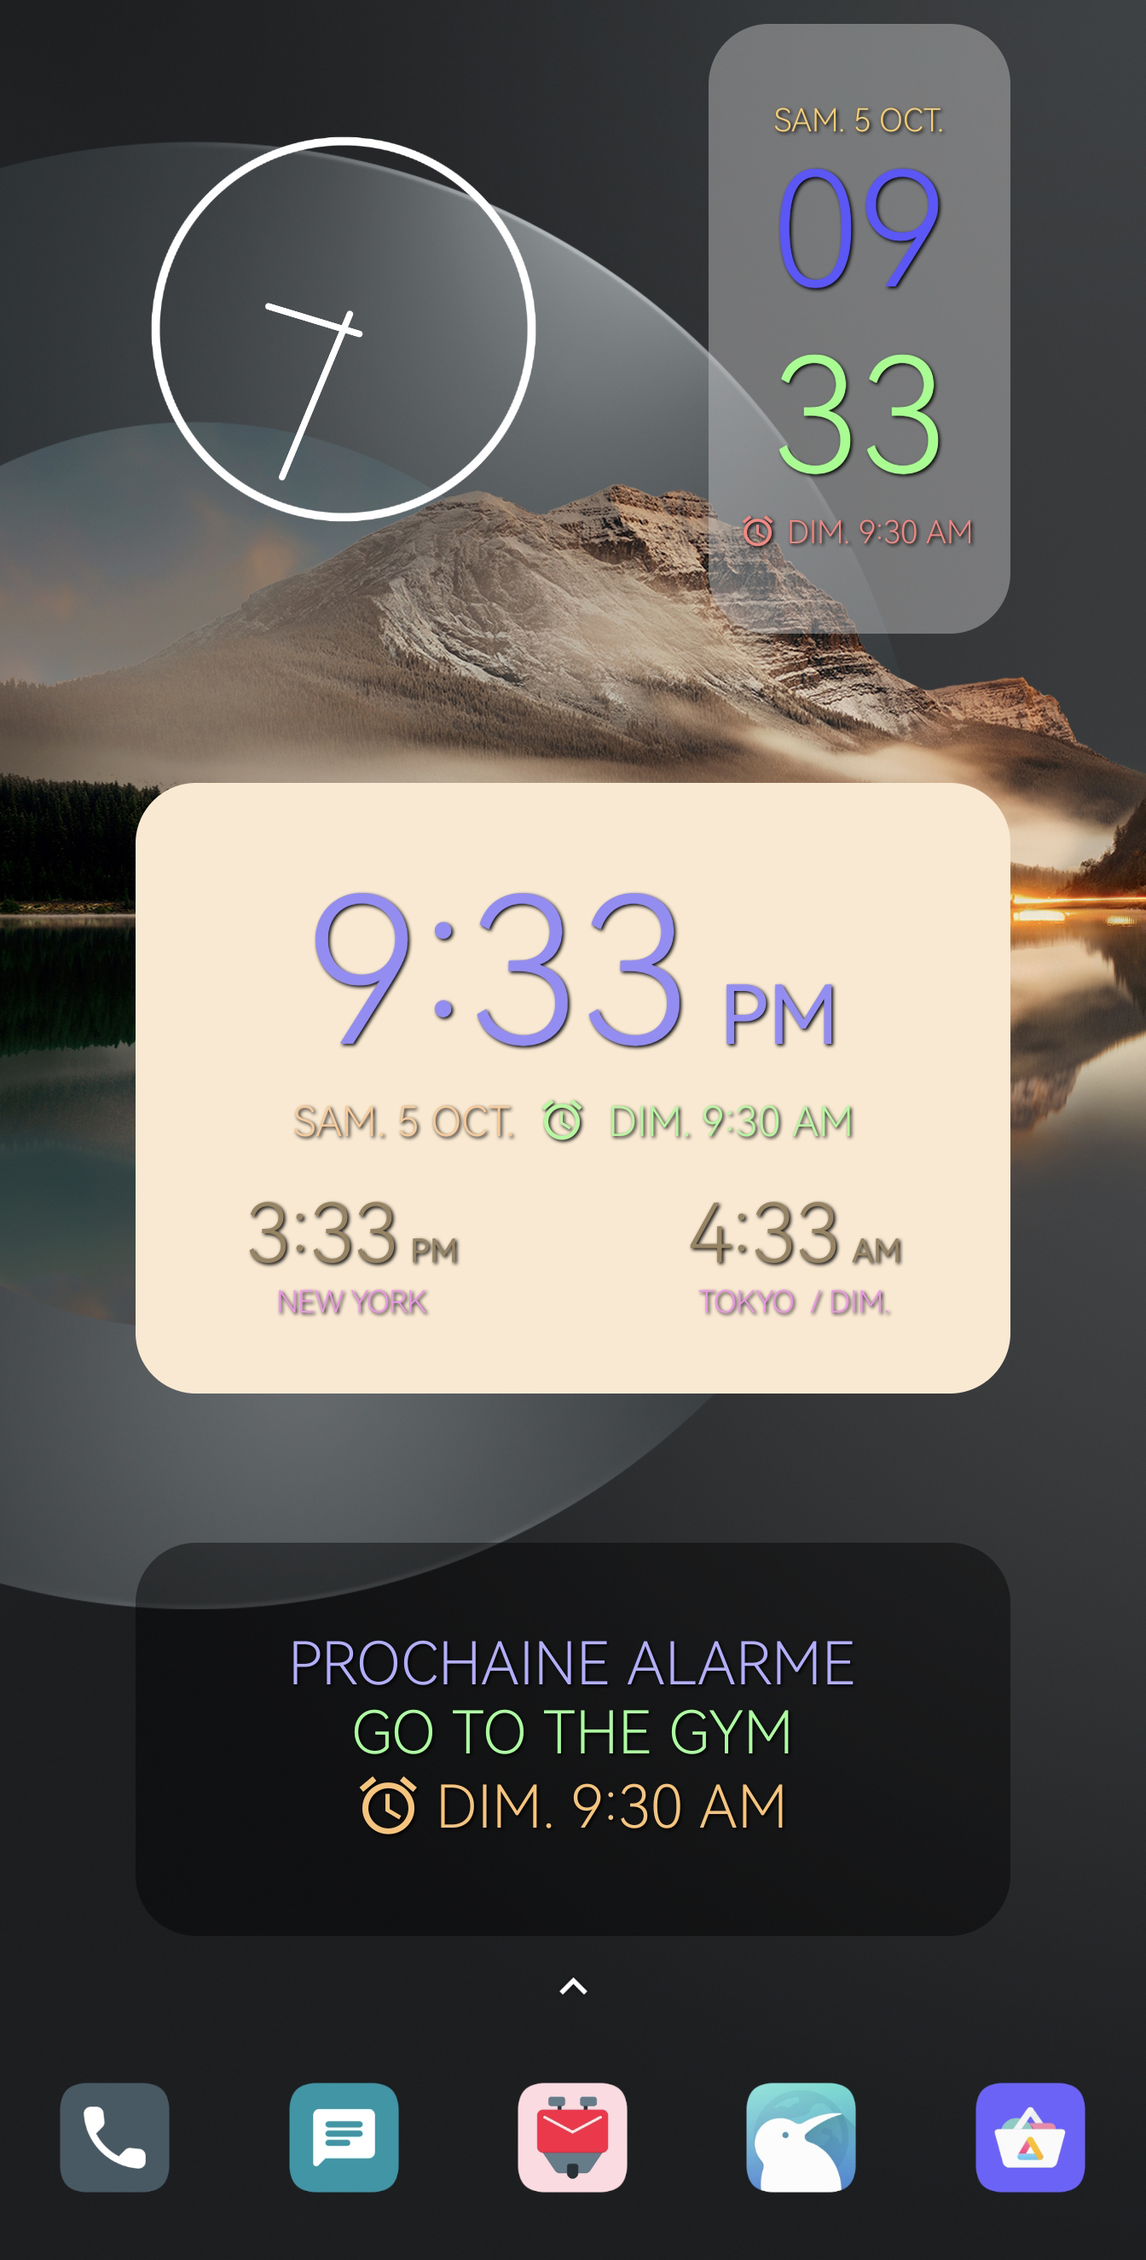
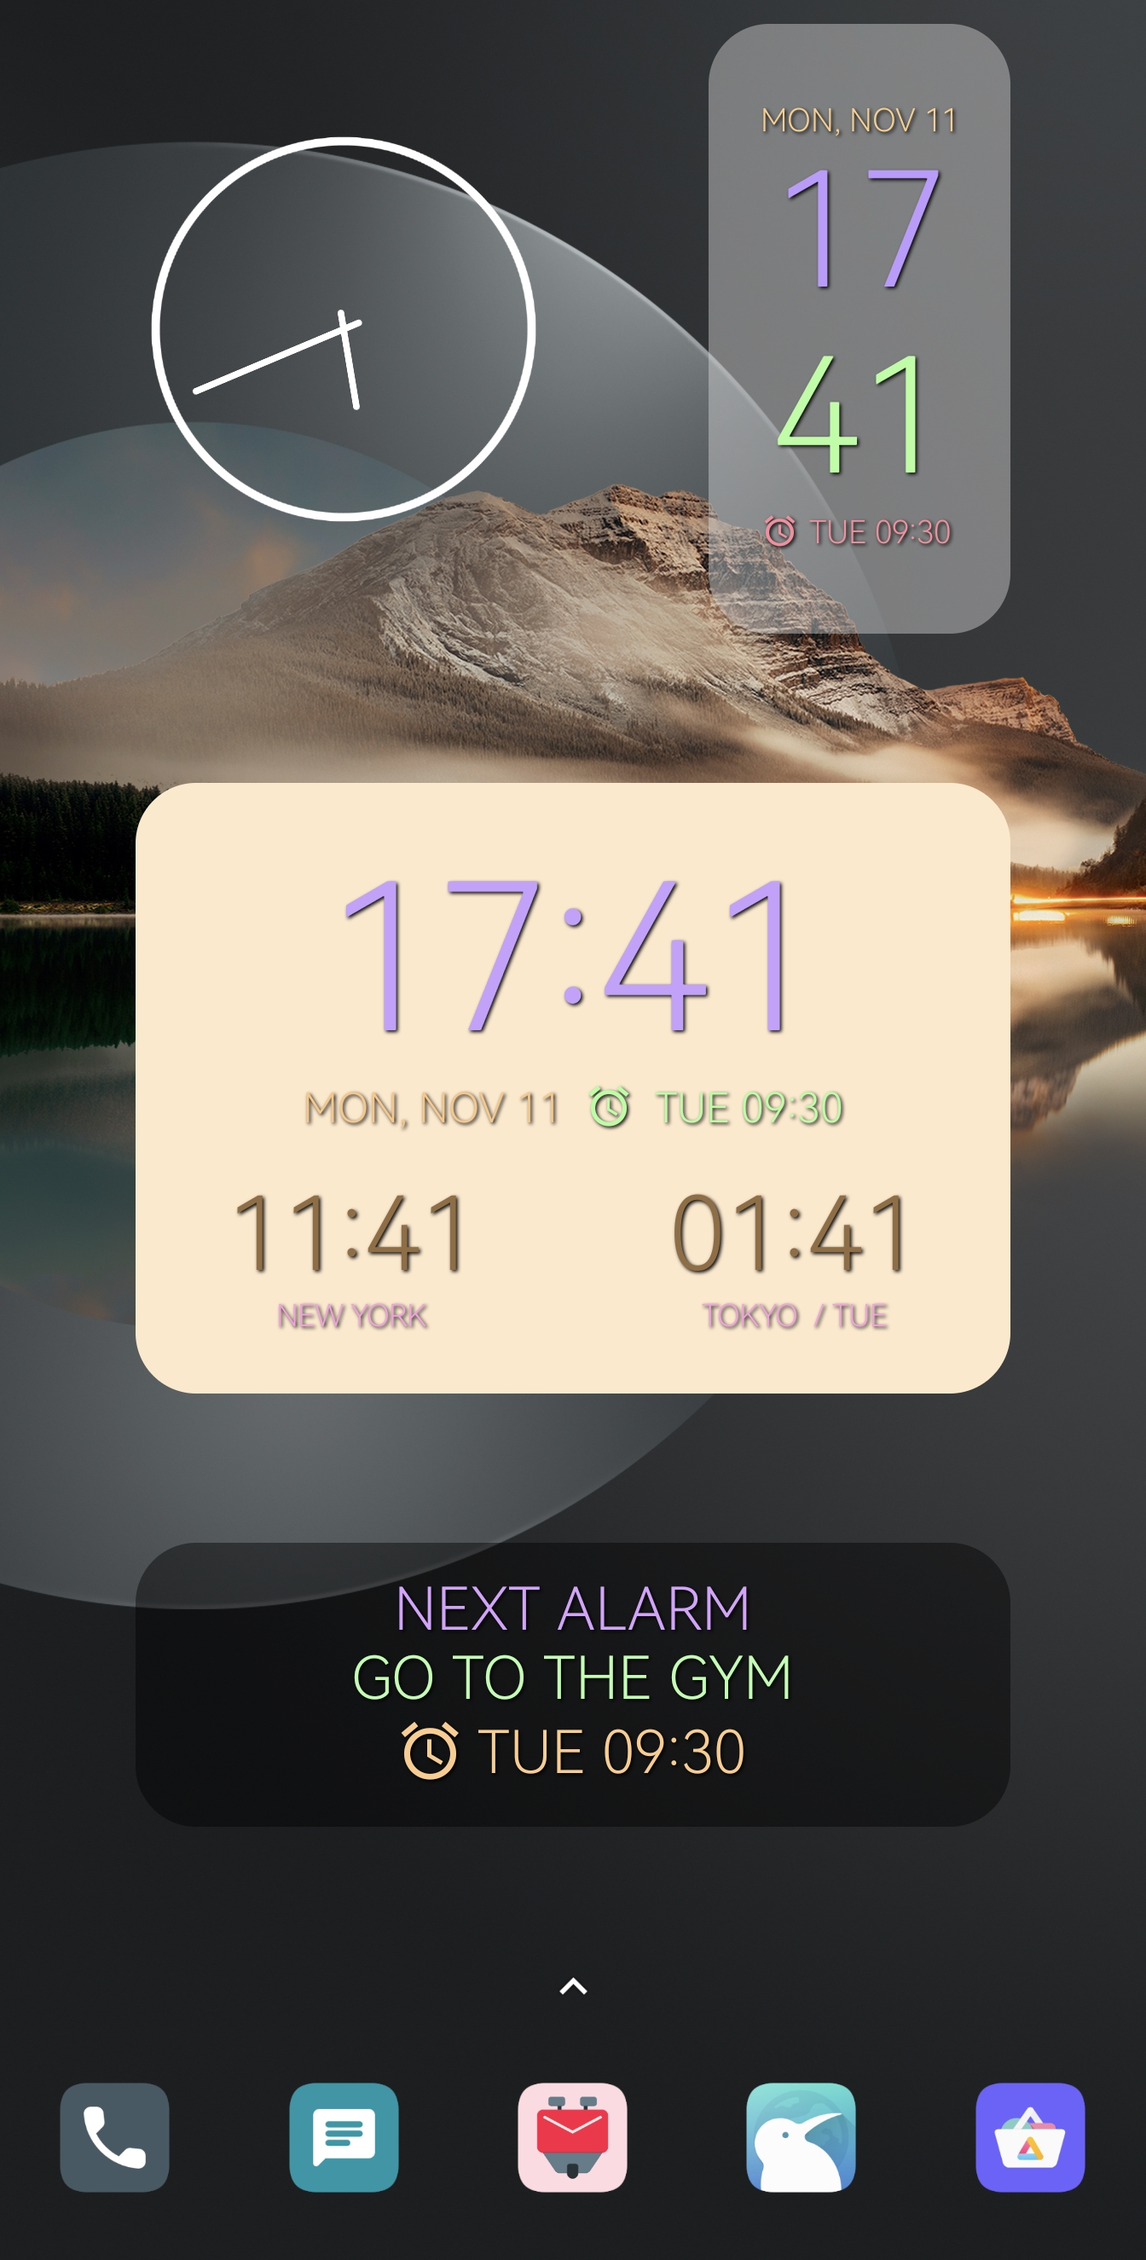
Some small updates
- Slightly improve the name of some values in the code;
- Screenshots (1x1px size) added in fastlane folder so that old screenshots are removed from F-Droid (These files may be deleted after the next update) - See #23;
- Update widget screenshots to display in English;

diff --git a/app/src/main/java/com/best/deskclock/Utils.java b/app/src/main/java/com/best/deskclock/Utils.java
@@ -840,14 +840,14 @@ public class Utils {
      * Apply the theme and the accent color to the activities.
      */
     public static void applyThemeAndAccentColor(final AppCompatActivity activity) {
-        final String getTheme = DataModel.getDataModel().getTheme();
-        final String getDarkMode = DataModel.getDataModel().getDarkMode();
+        final String theme = DataModel.getDataModel().getTheme();
+        final String darkMode = DataModel.getDataModel().getDarkMode();
         final String accentColor = DataModel.getDataModel().getAccentColor();
         final boolean isAutoNightAccentColorEnabled = DataModel.getDataModel().isAutoNightAccentColorEnabled();
         final String nightAccentColor = DataModel.getDataModel().getNightAccentColor();
 
-        if (getDarkMode.equals(KEY_DEFAULT_DARK_MODE)) {
-            switch (getTheme) {
+        if (darkMode.equals(KEY_DEFAULT_DARK_MODE)) {
+            switch (theme) {
                 case SYSTEM_THEME ->
                         AppCompatDelegate.setDefaultNightMode(AppCompatDelegate.MODE_NIGHT_FOLLOW_SYSTEM);
                 case LIGHT_THEME ->
@@ -855,8 +855,8 @@ public class Utils {
                 case DARK_THEME ->
                         AppCompatDelegate.setDefaultNightMode(AppCompatDelegate.MODE_NIGHT_YES);
             }
-        } else if (getDarkMode.equals(KEY_AMOLED_DARK_MODE)
-                && !getTheme.equals(SYSTEM_THEME) || !getTheme.equals(LIGHT_THEME)) {
+        } else if (darkMode.equals(KEY_AMOLED_DARK_MODE)
+                && !theme.equals(SYSTEM_THEME) || !theme.equals(LIGHT_THEME)) {
                 activity.setTheme(R.style.AmoledTheme);
         }
 
@@ -895,7 +895,7 @@ public class Utils {
         }
 
         if (activity instanceof CollapsingToolbarBaseActivity) {
-            if (isNight(activity.getResources()) && getDarkMode.equals(KEY_AMOLED_DARK_MODE)) {
+            if (isNight(activity.getResources()) && darkMode.equals(KEY_AMOLED_DARK_MODE)) {
                 activity.getWindow().setNavigationBarColor(Color.BLACK);
                 activity.getWindow().getDecorView().setBackgroundColor(Color.BLACK);
             } else {
@@ -904,7 +904,7 @@ public class Utils {
                 );
             }
         } else {
-            if (isNight(activity.getResources()) && getDarkMode.equals(KEY_AMOLED_DARK_MODE)) {
+            if (isNight(activity.getResources()) && darkMode.equals(KEY_AMOLED_DARK_MODE)) {
                 activity.getWindow().setNavigationBarColor(Color.BLACK);
                 activity.getWindow().getDecorView().setBackgroundColor(Color.BLACK);
             }

diff --git a/app/src/main/java/com/best/deskclock/timer/TimerSetupView.java b/app/src/main/java/com/best/deskclock/timer/TimerSetupView.java
@@ -88,7 +88,7 @@ public class TimerSetupView extends LinearLayout implements View.OnClickListener
         final int marginButtonBottom = Utils.toPixel(10, getContext());
         final boolean isCardBackgroundDisplayed = DataModel.getDataModel().isCardBackgroundDisplayed();
         final boolean isCardBorderDisplayed = DataModel.getDataModel().isCardBorderDisplayed();
-        final String getDarkMode = DataModel.getDataModel().getDarkMode();
+        final String darkMode = DataModel.getDataModel().getDarkMode();
 
         mTimeView = findViewById(R.id.timer_setup_time);
         mDeleteButton = findViewById(R.id.timer_setup_delete);
@@ -110,7 +110,7 @@ public class TimerSetupView extends LinearLayout implements View.OnClickListener
                 digitButton.setBackgroundTintList(ColorStateList.valueOf(
                         MaterialColors.getColor(getContext(), com.google.android.material.R.attr.colorSurface, Color.BLACK))
                 );
-            } else if (Utils.isNight(getContext().getResources()) && getDarkMode.equals(KEY_AMOLED_DARK_MODE)) {
+            } else if (Utils.isNight(getContext().getResources()) && darkMode.equals(KEY_AMOLED_DARK_MODE)) {
                 digitButton.setBackgroundTintList(ColorStateList.valueOf(Color.BLACK));
             } else {
                 digitButton.setBackgroundTintList(ColorStateList.valueOf(
@@ -142,7 +142,7 @@ public class TimerSetupView extends LinearLayout implements View.OnClickListener
             mDeleteButton.setBackgroundTintList(ColorStateList.valueOf(
                     MaterialColors.getColor(getContext(), com.google.android.material.R.attr.colorPrimaryContainer, Color.BLACK))
             );
-        } else if (Utils.isNight(getContext().getResources()) && getDarkMode.equals((KEY_AMOLED_DARK_MODE))) {
+        } else if (Utils.isNight(getContext().getResources()) && darkMode.equals((KEY_AMOLED_DARK_MODE))) {
             doubleZeroButton.setBackgroundTintList(ColorStateList.valueOf(Color.BLACK));
             mDeleteButton.setBackgroundTintList(ColorStateList.valueOf(Color.BLACK));
         } else {

diff --git a/app/src/main/java/com/best/deskclock/settings/DigitalWidgetCustomizationActivity.java b/app/src/main/java/com/best/deskclock/settings/DigitalWidgetCustomizationActivity.java
@@ -261,13 +261,13 @@ public class DigitalWidgetCustomizationActivity extends CollapsingToolbarBaseAct
             mShowBackgroundOnDigitalWidgetPref.setChecked(DataModel.getDataModel().isBackgroundDisplayedOnDigitalWidget());
             mBackgroundColorPref.setVisible(mShowBackgroundOnDigitalWidgetPref.isChecked());
 
-            List<City> getSelectedCities = new ArrayList<>(DataModel.getDataModel().getSelectedCities());
+            List<City> selectedCities = new ArrayList<>(DataModel.getDataModel().getSelectedCities());
             final boolean showHomeClock = DataModel.getDataModel().getShowHomeClock();
-            mShowCitiesOnDigitalWidgetPref.setVisible(!getSelectedCities.isEmpty() || showHomeClock);
-            mDefaultCityClockColorPref.setVisible(!getSelectedCities.isEmpty() || showHomeClock);
-            mCustomCityClockColorPref.setVisible(!getSelectedCities.isEmpty() || showHomeClock);
-            mDefaultCityNameColorPref.setVisible(!getSelectedCities.isEmpty() || showHomeClock);
-            mCustomCityNameColorPref.setVisible(!getSelectedCities.isEmpty() || showHomeClock);
+            mShowCitiesOnDigitalWidgetPref.setVisible(!selectedCities.isEmpty() || showHomeClock);
+            mDefaultCityClockColorPref.setVisible(!selectedCities.isEmpty() || showHomeClock);
+            mCustomCityClockColorPref.setVisible(!selectedCities.isEmpty() || showHomeClock);
+            mDefaultCityNameColorPref.setVisible(!selectedCities.isEmpty() || showHomeClock);
+            mCustomCityNameColorPref.setVisible(!selectedCities.isEmpty() || showHomeClock);
 
             mShowCitiesOnDigitalWidgetPref.setChecked(DataModel.getDataModel().areWorldCitiesDisplayedOnDigitalWidget());
             if (mShowCitiesOnDigitalWidgetPref.isShown()) {

diff --git a/app/src/main/java/com/best/deskclock/data/TimerNotificationBuilder.java b/app/src/main/java/com/best/deskclock/data/TimerNotificationBuilder.java
@@ -99,8 +99,8 @@ class TimerNotificationBuilder {
                         .putExtra(TimerService.EXTRA_TIMER_ID, timer.getId());
 
                 @DrawableRes final int icon2 = R.drawable.ic_add;
-                String getCustomTimeToAdd = timer.getButtonTime();
-                final CharSequence title2 = context.getString(R.string.timer_add_custom_time_for_notification, getCustomTimeToAdd);
+                String customTimeToAdd = timer.getButtonTime();
+                final CharSequence title2 = context.getString(R.string.timer_add_custom_time_for_notification, customTimeToAdd);
                 final PendingIntent intent2 = Utils.pendingServiceIntent(context, addMinuteOrHour);
                 actions.add(new Action.Builder(icon2, title2, intent2).build());
 
@@ -251,8 +251,8 @@ class TimerNotificationBuilder {
             final Intent addTime = TimerService.createAddCustomTimeToTimerIntent(context, timer.getId());
             final PendingIntent intent2 = Utils.pendingServiceIntent(context, addTime);
             @DrawableRes final int icon2 = R.drawable.ic_add;
-            String getCustomTimeToAdd = timer.getButtonTime();
-            final CharSequence title2 = context.getString(R.string.timer_add_custom_time_for_notification, getCustomTimeToAdd);
+            String customTimeToAdd = timer.getButtonTime();
+            final CharSequence title2 = context.getString(R.string.timer_add_custom_time_for_notification, customTimeToAdd);
             actions.add(new Action.Builder(icon2, title2, intent2).build());
         } else {
             titleText = context.getString(R.string.timer_multi_times_up, count);

diff --git a/app/src/main/java/com/best/deskclock/settings/MaterialYouDigitalWidgetCustomizationActivity.java b/app/src/main/java/com/best/deskclock/settings/MaterialYouDigitalWidgetCustomizationActivity.java
@@ -245,13 +245,13 @@ public class MaterialYouDigitalWidgetCustomizationActivity extends CollapsingToo
         }
 
         private void setupPreferences() {
-            List<City> getSelectedCities = new ArrayList<>(DataModel.getDataModel().getSelectedCities());
+            List<City> selectedCities = new ArrayList<>(DataModel.getDataModel().getSelectedCities());
             final boolean showHomeClock = DataModel.getDataModel().getShowHomeClock();
-            mShowCitiesOnDigitalWidgetPref.setVisible(!getSelectedCities.isEmpty() || showHomeClock);
-            mDefaultCityClockColorPref.setVisible(!getSelectedCities.isEmpty() || showHomeClock);
-            mCustomCityClockColorPref.setVisible(!getSelectedCities.isEmpty() || showHomeClock);
-            mDefaultCityNameColorPref.setVisible(!getSelectedCities.isEmpty() || showHomeClock);
-            mCustomCityNameColorPref.setVisible(!getSelectedCities.isEmpty() || showHomeClock);
+            mShowCitiesOnDigitalWidgetPref.setVisible(!selectedCities.isEmpty() || showHomeClock);
+            mDefaultCityClockColorPref.setVisible(!selectedCities.isEmpty() || showHomeClock);
+            mCustomCityClockColorPref.setVisible(!selectedCities.isEmpty() || showHomeClock);
+            mDefaultCityNameColorPref.setVisible(!selectedCities.isEmpty() || showHomeClock);
+            mCustomCityNameColorPref.setVisible(!selectedCities.isEmpty() || showHomeClock);
 
             mShowCitiesOnDigitalWidgetPref.setChecked(
                     DataModel.getDataModel().areWorldCitiesDisplayedOnMaterialYouDigitalWidget()

diff --git a/app/src/main/java/com/best/deskclock/DeskClock.java b/app/src/main/java/com/best/deskclock/DeskClock.java
@@ -308,7 +308,7 @@ public class DeskClock extends AppCompatActivity
         mFragmentTabPager.setAdapter(mFragmentTabPagerAdapter);
 
         // Mirror changes made to the selected tab into UiDataModel.
-        final String getDarkMode = DataModel.getDataModel().getDarkMode();
+        final String darkMode = DataModel.getDataModel().getDarkMode();
         final int primaryColor = MaterialColors.getColor(this, com.google.android.material.R.attr.colorPrimary, Color.BLACK);
         final int surfaceColor = MaterialColors.getColor(this, com.google.android.material.R.attr.colorSurface, Color.BLACK);
         final boolean isTabIndicatorDisplayed = DataModel.getDataModel().isTabIndicatorDisplayed();
@@ -326,7 +326,7 @@ public class DeskClock extends AppCompatActivity
                 new int[][]{{android.R.attr.state_selected}, {android.R.attr.state_pressed}, {}},
                 new int[]{primaryColor, primaryColor, getColor(R.color.md_theme_onBackground)})
         );
-        if (Utils.isNight(getResources()) && getDarkMode.equals(KEY_AMOLED_DARK_MODE)) {
+        if (Utils.isNight(getResources()) && darkMode.equals(KEY_AMOLED_DARK_MODE)) {
             mBottomNavigation.setBackgroundColor(Color.BLACK);
             mBottomNavigation.setItemTextColor(new ColorStateList(
                     new int[][]{{android.R.attr.state_selected}, {android.R.attr.state_pressed}, {}},

diff --git a/app/src/main/java/com/best/alarmclock/MaterialYouDigitalAppWidgetProvider.java b/app/src/main/java/com/best/alarmclock/MaterialYouDigitalAppWidgetProvider.java
@@ -174,7 +174,7 @@ public class MaterialYouDigitalAppWidgetProvider extends AppWidgetProvider {
 
         // Fetch the widget size selected by the user.
         final boolean areWorldCitiesDisplayed = DataModel.getDataModel().areWorldCitiesDisplayedOnMaterialYouDigitalWidget();
-        List<City> getSelectedCities = new ArrayList<>(DataModel.getDataModel().getSelectedCities());
+        List<City> selectedCities = new ArrayList<>(DataModel.getDataModel().getSelectedCities());
         final boolean showHomeClock = DataModel.getDataModel().getShowHomeClock();
         final Resources resources = context.getResources();
         final float density = resources.getDisplayMetrics().density;
@@ -186,7 +186,7 @@ public class MaterialYouDigitalAppWidgetProvider extends AppWidgetProvider {
         final int targetHeightPx = portrait ? maxHeightPx : minHeightPx;
         final String maxClockFontSize = DataModel.getDataModel().getMaterialYouDigitalWidgetMaxClockFontSize();
         final int largestClockFontSizePx = Utils.toPixel(
-                !getSelectedCities.isEmpty() && areWorldCitiesDisplayed || showHomeClock && areWorldCitiesDisplayed
+                !selectedCities.isEmpty() && areWorldCitiesDisplayed || showHomeClock && areWorldCitiesDisplayed
                     ? 80
                     : Integer.parseInt(maxClockFontSize), context);
 

diff --git a/app/src/main/java/com/best/alarmclock/DigitalAppWidgetProvider.java b/app/src/main/java/com/best/alarmclock/DigitalAppWidgetProvider.java
@@ -172,7 +172,7 @@ public class DigitalAppWidgetProvider extends AppWidgetProvider {
 
         // Fetch the widget size selected by the user.
         final boolean areWorldCitiesDisplayed = DataModel.getDataModel().areWorldCitiesDisplayedOnDigitalWidget();
-        List<City> getSelectedCities = new ArrayList<>(DataModel.getDataModel().getSelectedCities());
+        List<City> selectedCities = new ArrayList<>(DataModel.getDataModel().getSelectedCities());
         final boolean showHomeClock = DataModel.getDataModel().getShowHomeClock();
         final Resources resources = context.getResources();
         final float density = resources.getDisplayMetrics().density;
@@ -184,7 +184,7 @@ public class DigitalAppWidgetProvider extends AppWidgetProvider {
         final int targetHeightPx = portrait ? maxHeightPx : minHeightPx;
         final String maxClockFontSize = DataModel.getDataModel().getDigitalWidgetMaxClockFontSize();
         final int largestClockFontSizePx = Utils.toPixel(
-                !getSelectedCities.isEmpty() && areWorldCitiesDisplayed || showHomeClock && areWorldCitiesDisplayed
+                !selectedCities.isEmpty() && areWorldCitiesDisplayed || showHomeClock && areWorldCitiesDisplayed
                     ? 80
                     : Integer.parseInt(maxClockFontSize), context);
 

diff --git a/app/src/main/java/com/best/deskclock/AlarmClockFragment.java b/app/src/main/java/com/best/deskclock/AlarmClockFragment.java
@@ -510,11 +510,11 @@ public final class AlarmClockFragment extends DeskClockFragment implements
         @TimeFormat int clockFormat;
         boolean isSystem24Hour = DateFormat.is24HourFormat(mContext);
         clockFormat = isSystem24Hour ? TimeFormat.CLOCK_24H : TimeFormat.CLOCK_12H;
-        String getMaterialTimePickerStyle = DataModel.getDataModel().getMaterialTimePickerStyle();
+        String materialTimePickerStyle = DataModel.getDataModel().getMaterialTimePickerStyle();
 
         MaterialTimePicker materialTimePicker = new MaterialTimePicker.Builder()
                 .setTimeFormat(clockFormat)
-                .setInputMode(getMaterialTimePickerStyle.equals(MATERIAL_TIME_PICKER_ANALOG_STYLE)
+                .setInputMode(materialTimePickerStyle.equals(MATERIAL_TIME_PICKER_ANALOG_STYLE)
                         ? MaterialTimePicker.INPUT_MODE_CLOCK
                         : MaterialTimePicker.INPUT_MODE_KEYBOARD)
                 .setHour(hour)

diff --git a/app/src/main/java/com/best/deskclock/timer/TimerFragment.java b/app/src/main/java/com/best/deskclock/timer/TimerFragment.java
@@ -274,9 +274,9 @@ public final class TimerFragment extends DeskClockFragment {
             try {
                 // Create the new timer.
                 final long timerLength = mCreateTimerView.getTimeInMillis();
-                String getDefaultTimeToAddToTimer = String.valueOf(DataModel.getDataModel().getDefaultTimeToAddToTimer());
+                String defaultTimeToAddToTimer = String.valueOf(DataModel.getDataModel().getDefaultTimeToAddToTimer());
                 final Timer timer = DataModel.getDataModel().addTimer(timerLength, "",
-                        getDefaultTimeToAddToTimer, false);
+                        defaultTimeToAddToTimer, false);
                 Events.sendTimerEvent(R.string.action_create, R.string.label_deskclock);
 
                 // Start the new timer.

diff --git a/app/src/main/java/com/best/deskclock/alarms/AlarmActivity.java b/app/src/main/java/com/best/deskclock/alarms/AlarmActivity.java
@@ -218,8 +218,8 @@ public class AlarmActivity extends AppCompatActivity implements View.OnClickList
 
         setContentView(R.layout.alarm_activity);
 
-        final String getDarkMode = DataModel.getDataModel().getDarkMode();
-        final boolean isAmoledMode = Utils.isNight(getResources()) && getDarkMode.equals(KEY_AMOLED_DARK_MODE);
+        final String darkMode = DataModel.getDataModel().getDarkMode();
+        final boolean isAmoledMode = Utils.isNight(getResources()) && darkMode.equals(KEY_AMOLED_DARK_MODE);
         int alarmBackgroundColor = isAmoledMode
                 ? DataModel.getDataModel().getAlarmBackgroundAmoledColor()
                 : DataModel.getDataModel().getAlarmBackgroundColor();

diff --git a/app/src/main/java/com/best/deskclock/HandleApiCalls.java b/app/src/main/java/com/best/deskclock/HandleApiCalls.java
@@ -459,8 +459,8 @@ public class HandleApiCalls extends Activity {
 
         // Create a new timer if one could not be reused.
         if (timer == null) {
-            String getDefaultTimeToAddToTimer = String.valueOf(DataModel.getDataModel().getDefaultTimeToAddToTimer());
-            timer = DataModel.getDataModel().addTimer(lengthMillis, label, getDefaultTimeToAddToTimer, skipUi);
+            String defaultTimeToAddToTimer = String.valueOf(DataModel.getDataModel().getDefaultTimeToAddToTimer());
+            timer = DataModel.getDataModel().addTimer(lengthMillis, label, defaultTimeToAddToTimer, skipUi);
             Events.sendTimerEvent(R.string.action_create, R.string.label_intent);
         }
 
